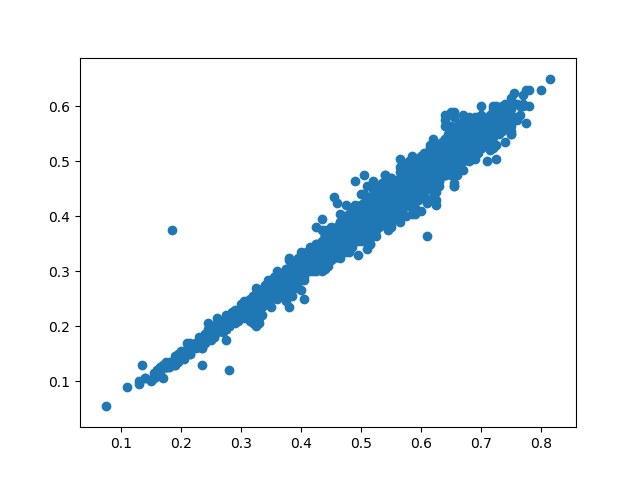
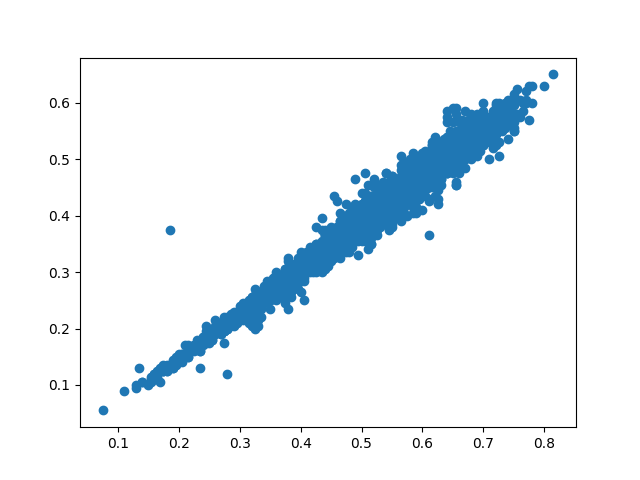
254 modeli limpio

diff --git a/templates/index.html b/templates/index.html
@@ -88,6 +88,13 @@
                         </select>
                     </div>
                     <div class="subitems">
+                        <p>modelo o scatter</p>
+                        <label for="">Modelo</label>
+                        <input type="radio" name="modelo" value="si" required >
+                        <label for="">Scatter</label>
+                        <input type="radio" name="modelo" value="no" required>
+                    </div>
+                    <div class="subitems">
                         <p>tipo de regresion</p>
                         <select name="regresion" id="">
                             <option value="lineal">lineal</option>

diff --git a/datos.py b/datos.py
@@ -24,12 +24,13 @@ from sklearn.metrics import r2_score
 from sklearn.metrics import mean_squared_error
 
 # funciones del tratamiento de datos, toco ponerlas aca porque no las encontraba
-
+#decimos ubicacion del csv
 file = "datos/abalone.csv"
 
+#leemos el fichero
 datacsv = pd.read_csv(file)
 
-
+#establecemos las columnas
 column = ['sex',
           'length',
           'diameter',
@@ -41,7 +42,7 @@ column = ['sex',
           'rings']
 datacsv.columns = column
 
-
+#esta funcion, recibe la columna y saca los qr1 qr3 y iqr
 def quantiles(column):
     newlist = []
     qr1 = (datacsv[column].quantile(q=0.25))
@@ -53,20 +54,31 @@ def quantiles(column):
     newlist.append(iqr)
     return newlist
 
-
+#genera la lista de indices que se deben eliminar de una columna, recibe la lista anteriorir de qr's
 def todelete(column, newlist, factoralfa):
     deleted = []
-    print("norrea")
-    print(factoralfa)
     for i in range(0, len(datacsv[column])):
         if (datacsv[column][i] < newlist[0]-int(factoralfa)*newlist[2]):
             deleted.append(i)
         if (datacsv[column][i] > newlist[1] + int(factoralfa)*newlist[2]):
             deleted.append(i)
-
     return deleted
 
+#necesito para generar el modelo con el mismo len en cada columna
+#entonces lo que hago es obtener la lista de todos los atipicos, sumados todas las listas
+#idividuales de cada columna
+#recibe el factor alfa (1.5 a 3) y la lista de columnas
+def todeletemodel(listaColumnas, factoralfa):
+    deletedtotal=[]
+    listasumada=[]
+    for i in range(len(listaColumnas)):
+        newlist=quantiles(listaColumnas[i])
+        listasumada = todelete(listaColumnas[i], newlist, factoralfa) + listasumada
+    deletedtotal = set(listasumada)
+    deletedtotal=list(deletedtotal)
+    return deletedtotal
 
+#elimina los indices, recibe la columna y la lista a eliminar
 def deleting(column, todelete):
     datacsv2 = datacsv.drop(datacsv.index[todelete])
     return datacsv2
@@ -81,11 +93,11 @@ def framehist(datacsvframe, column, dataframeoriginal):
     figura = plot.hist(dataframeoriginal[column])
     ubicacion2 = 'datos/static/grafica2.png'
     plot.savefig(ubicacion2)
-
 #retorna 2 ubicaciones genericas, de hecho, todo retorna dos ubicaciones que se renderizan
 #en el html, la diferencia es que cada metodo incluye dibujar la grafica y guardarla
 #de acuerdo al metodo se guardaran las 2 imagenes y ya
 
+##este metodo se encarga de generar el antes y despues de el diagrama de bigotes
 def frameboxplot(datacsvframe, column, dataframeoriginal):
     figura = plot.boxplot(datacsvframe[column])
     ubicacion = 'datos/static/grafica.png'
@@ -95,8 +107,7 @@ def frameboxplot(datacsvframe, column, dataframeoriginal):
     ubicacion2 = 'datos/static/grafica2.png'
     plot.savefig(ubicacion2)
 
-#ya funciona
-
+##este metodo se encarga de generar el antes y despues de el diagrama de normalizacion
 def frameprobplot(datacsvframe, column, dataframeoriginal):
     fig = plot.figure()
     ax = fig.add_subplot(111)
@@ -110,8 +121,9 @@ def frameprobplot(datacsvframe, column, dataframeoriginal):
     ubicacion2 = 'datos/static/grafica2.png'
     plot.savefig(ubicacion2)
 
-#funcion corazon para cuando la persona no quiera ver sin atipicos
+#funcion corazon para cuando la persona no quiera ver atipicos
 def corazon():
+    plot.subplots()
     x = np.linspace(-1,1,1000)
     y1 = np.sqrt(x * x) + np.sqrt(1 - x * x)
     y2 = np.sqrt(x * x) - np.sqrt(1 - x * x)
@@ -123,11 +135,11 @@ def corazon():
 #funciones de comparacion de 2 o mas variables, toca ahcer una de 1 variable de entrada
 #y una de salida, y otro metoodo para n variables de entrada y una de salida
 #el codigo cambia ligeramente
-
 #por ahora solo la imagen
-
-def framescatter(datacsvframe, column,column2, dataframeoriginal):
-    plot.scatter(datacsvframe[column], datacsvframe[column2])
+def framescatter(datacsvframeA,datacsvframeB, column,column2, dataframeoriginal):
+    print(len(datacsvframeA))
+    print(len(datacsvframeB))
+    plot.scatter(list(datacsvframeA),list(datacsvframeB))
     ubicacion = 'datos/static/grafica.png'
     plot.savefig(ubicacion)
     plot.subplots()
@@ -135,8 +147,17 @@ def framescatter(datacsvframe, column,column2, dataframeoriginal):
     ubicacion2 = 'datos/static/grafica2.png'
     plot.savefig(ubicacion2)
 
-#funcion para que el alfa se asigne correctamente
+#pal modelo
+def framescattermodel(modelogeneradolimpio, modelogeneradosucio, variablelimpia, variablesucia):
+    plot.scatter(modelogeneradolimpio, variablelimpia)
+    ubicacion = 'datos/static/grafica.png'
+    plot.savefig(ubicacion)
+    plot.subplots()
+    plot.scatter(modelogeneradosucio, variablesucia)
+    ubicacion2 = 'datos/static/grafica2.png'
+    plot.savefig(ubicacion2)
 
+#funcion para que el alfa se asigne correctamente
 def corregirfactoralfa(factoralfa):
     if(factoralfa=="0"):
         return 1.5
@@ -148,38 +169,28 @@ def corregirfactoralfa(factoralfa):
         return 3
 
 #funciones para el modelo
-#modelo de una entrada y una salida
-def modelounoauno(variableentrada,variablesalida,tipoderegresion,tamañoentrenamiento,factoralfa):
-
-    X=deleting(variableentrada[0], todelete(variableentrada[0], quantiles(variableentrada[0]), corregirfactoralfa(factoralfa)))[variableentrada[0]]
-    Y=deleting(variablesalida, todelete(variablesalida, quantiles(variablesalida), corregirfactoralfa(factoralfa)))[variablesalida]
-
+#modelo de una entrada y una salida, con regresion lineal (porque no hemos visto mas)
+def modelounoauno(tamañoentrenamiento,X,Y):
     X_train, X_test, Y_train, Y_test = train_test_split(
                                         X,
                                         Y,
-                                        train_size   = tamañoentrenamiento,
+                                        train_size   = corregirentrenamiento(tamañoentrenamiento),
                                     )
     modelo = LinearRegression()
     modelo.fit(X = np.array(X_train).reshape(-1, 1), y = Y_train)
-            ##se debe retornar
     datosobtenidos = modelo.predict(X = np.array(X_test).reshape(-1,1))
-    print(datosobtenidos)
-    rmse = mean_squared_error(y_true  = Y_test, y_pred  = datosobtenidos)
-    print(rmse)
-            #############
-    if(tipoderegresion == "polinomica"):
-        print("hola")
+    # rmse = mean_squared_error(y_true  = Y_test, y_pred  = datosobtenidos)
+    # print(rmse)
+    return datosobtenidos
     
 
 
 #funcion de correcion de tamañode entranamiento
-
 def corregirentrenamiento(tamañoentrenamiento):
     return tamañoentrenamiento/100
     
 ##############################################################################
-# hoja de rutas
-
+# hoja de rutas de flask
 
 @app.route('/')
 def index():
@@ -206,6 +217,10 @@ def visualize():
     variablesalida = request.form.get('variablesalida')
     # devuelve el texto
 
+    #esto recupera que quiere la persona, modelo o scatter directamente
+    modelo = request.form['modelo']
+    #retorna si, no
+
     # regresion, se hace igual que arriba
     regresion = request.form.get('regresion')
     # devuelve el texto
@@ -217,24 +232,38 @@ def visualize():
     #seleccionar grafica
     tipografica = request.form.get('tipografica')
 
-    # modelo para una sola entrada de variable, y una sola salida
+    # este if determina si solo hay una variable de entrada y no hay variables de salida
+    #en caso de solo haberla, genera ambas imagenes, y solo en caso
+    #de tener desactivado los atipicos sobreescribiria la segunda iamgen por un corazon
     if (len(variableentrada) == 1 and variablesalida == "no"):
-        if (atipicos == "activado"):
-            if(tipografica=="dispersion"):
-                fig = framehist(deleting(variableentrada[0], todelete(variableentrada[0], quantiles(variableentrada[0]), corregirfactoralfa(factoralfa))), variableentrada[0], datacsv)
-            if(tipografica=="diagrama de bigotes"): 
-                fig = frameboxplot(deleting(variableentrada[0], todelete(variableentrada[0], quantiles(variableentrada[0]), corregirfactoralfa(factoralfa))), variableentrada[0], datacsv)
-            if(tipografica=="normalizacion"):
-                fig = frameprobplot(deleting(variableentrada[0], todelete(variableentrada[0], quantiles(variableentrada[0]), corregirfactoralfa(factoralfa))), variableentrada[0], datacsv)
-        else:    
+        if(tipografica=="dispersion"):
+            fig = framehist(deleting(variableentrada[0], todelete(variableentrada[0], quantiles(variableentrada[0]), corregirfactoralfa(factoralfa))), variableentrada[0], datacsv)
+        if(tipografica=="diagrama de bigotes"): 
+            fig = frameboxplot(deleting(variableentrada[0], todelete(variableentrada[0], quantiles(variableentrada[0]), corregirfactoralfa(factoralfa))), variableentrada[0], datacsv)
+        if(tipografica=="normalizacion"):
+            fig = frameprobplot(deleting(variableentrada[0], todelete(variableentrada[0], quantiles(variableentrada[0]), corregirfactoralfa(factoralfa))), variableentrada[0], datacsv)
+        if (atipicos == "desactivado"):
             corazon()
+
+    #este if revisa si hay una variable de entrada y una de salida, se genera la imagen de relacion y el modelo
     if (len(variableentrada) == 1 and variablesalida != "no"):
-        if (atipicos == "activado"):
-            modelounoauno(variableentrada,variablesalida,regresion,tamañoentrenamiento,corregirfactoralfa(factoralfa))
-            fig = framescatter(deleting(variableentrada[0], todelete(variableentrada[0], quantiles(variableentrada[0]), corregirfactoralfa(factoralfa))),variableentrada[0],variablesalida,datacsv)
-        else:
-            corazon()
-    
+        if(modelo=="si"):
+            if (atipicos == "activado"):
+                muchasJuntas=variableentrada
+                muchasJuntas.append(variablesalida)
+                modelogeneradolimpio = modelounoauno(int(tamañoentrenamiento),deleting(variableentrada[0], todeletemodel(muchasJuntas, corregirfactoralfa(factoralfa)))[variableentrada[0]],deleting(variablesalida, todeletemodel(muchasJuntas, corregirfactoralfa(factoralfa)))[variablesalida])
+                print(modelogeneradolimpio)
+                modelogeneradosucio =modelounoauno(int(tamañoentrenamiento),datacsv[variableentrada[0]],datacsv[variablesalida])
+                print(modelogeneradosucio)
+                framescatter(modelogeneradolimpio,modelogeneradosucio,deleting(variableentrada[0], todelete(variableentrada[0], quantiles(variableentrada[0]), corregirfactoralfa(factoralfa))),datacsv[variableentrada[0]])
+            else:
+                corazon()
+        if(modelo=="no"):
+            muchasJuntas=variableentrada
+            muchasJuntas.append(variablesalida)
+            framescatter(deleting(variableentrada[0],todeletemodel(muchasJuntas, corregirfactoralfa(factoralfa)))[variableentrada[0]],deleting(variablesalida, todeletemodel(muchasJuntas, corregirfactoralfa(factoralfa)))[variablesalida],variableentrada[0],variablesalida,datacsv)
+            if (atipicos == "desactivado"):
+                corazon()
     #con este return, solo le digo que renderice con las 2 imagenes cuales quiera
     #ya depende de cada metodo de los de arriba de las rutas de flask guardar las imagenes que son
     return render_template('index.html', datas=["../static/grafica2.png", "../static/grafica.png"])
